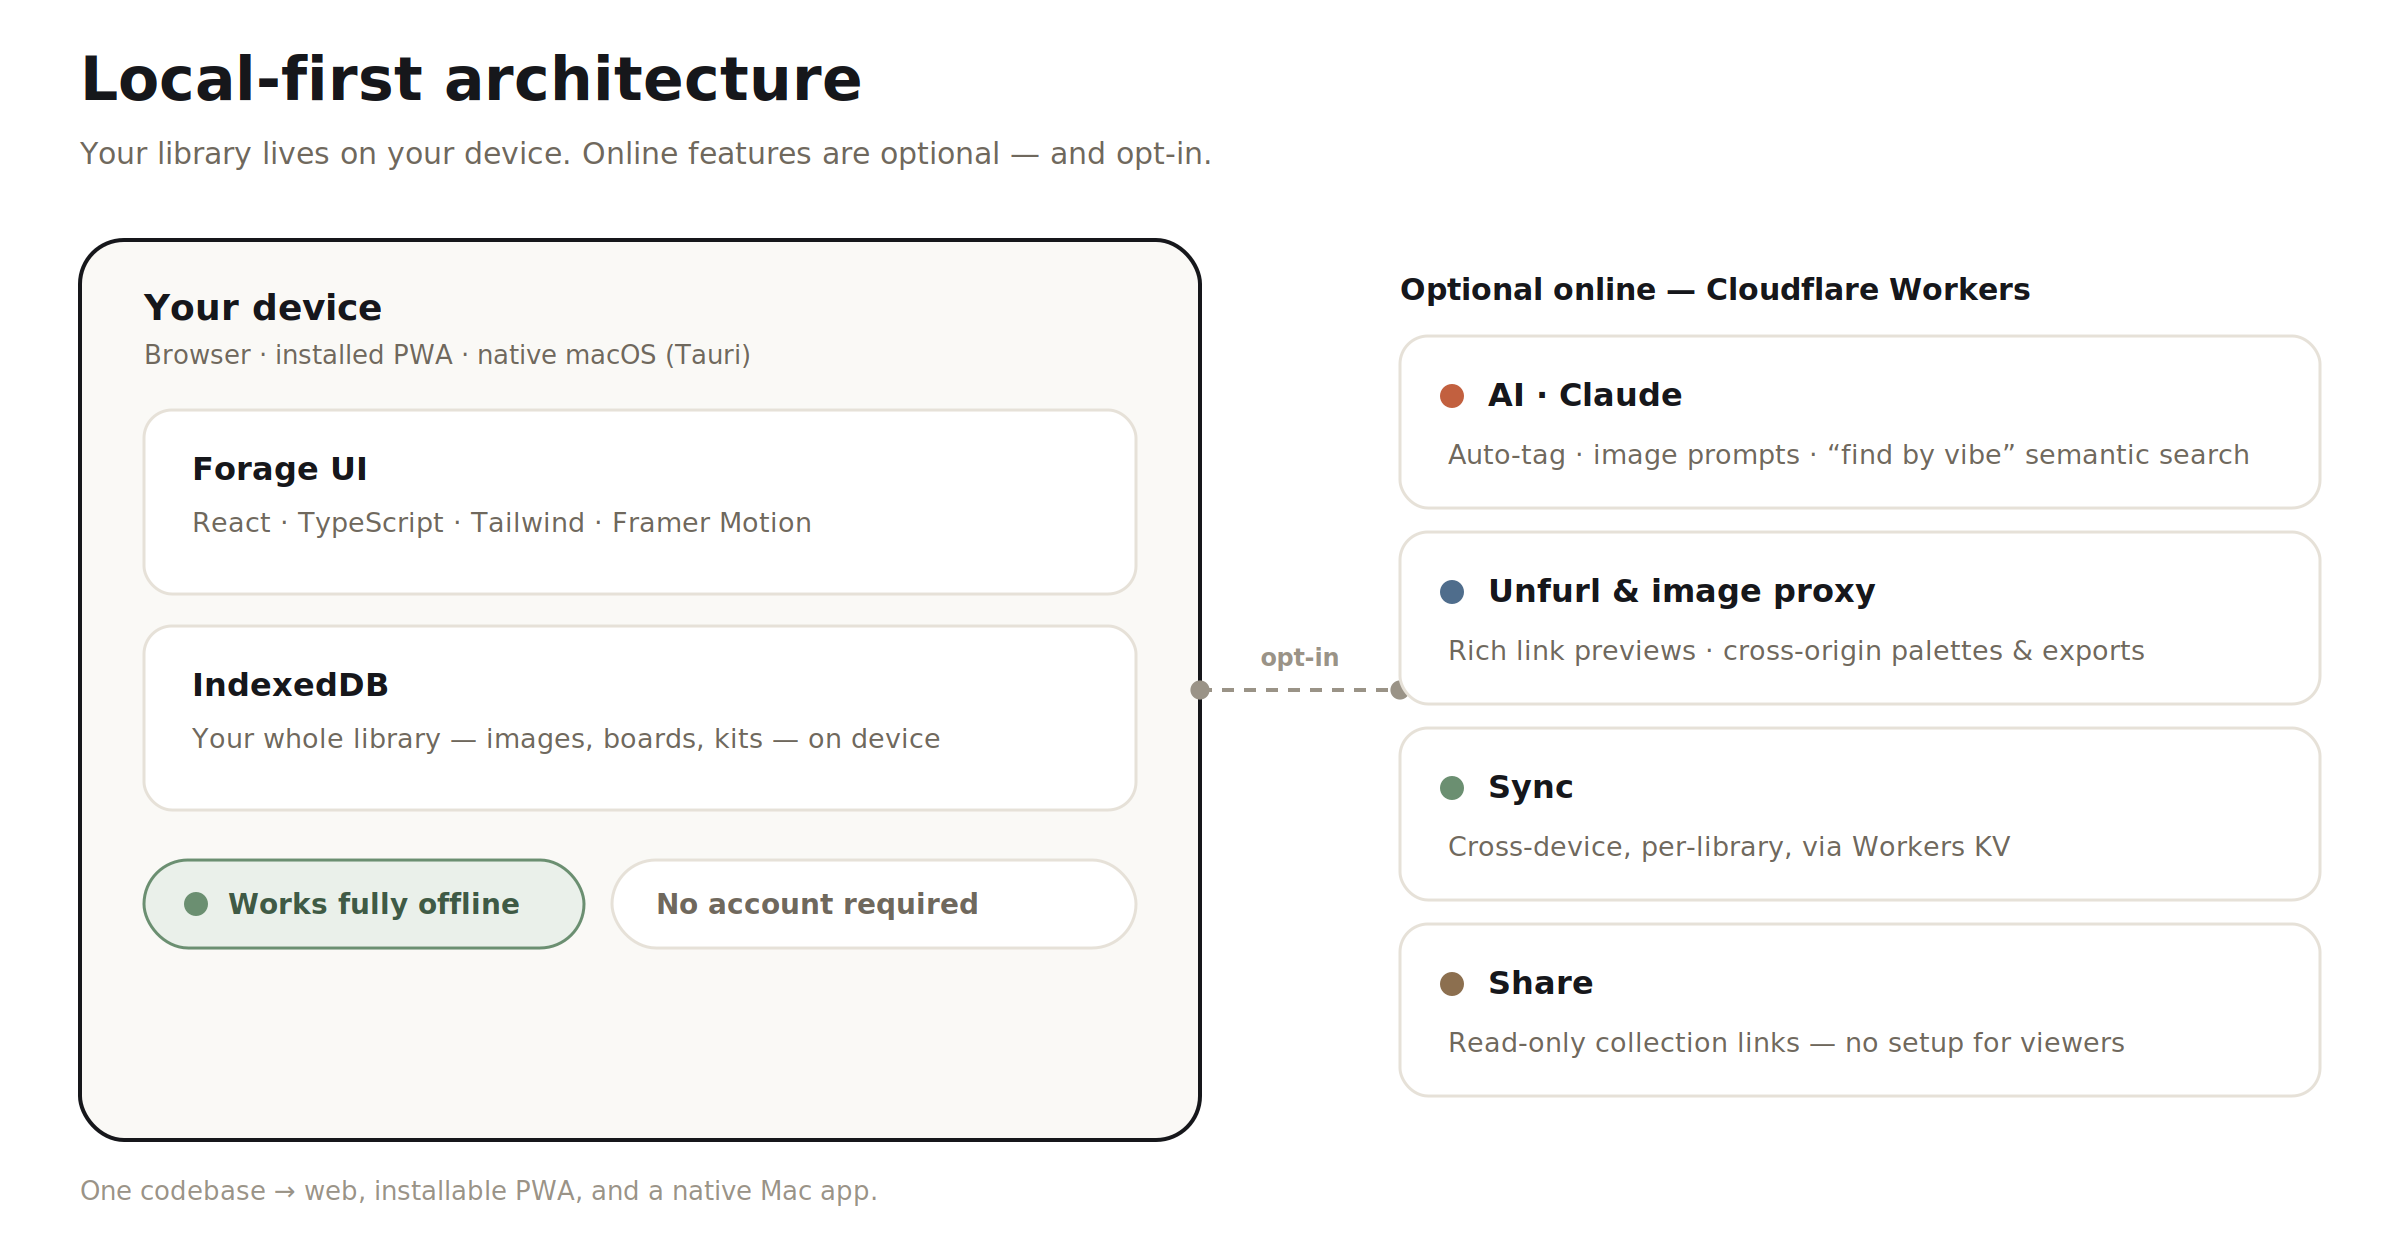
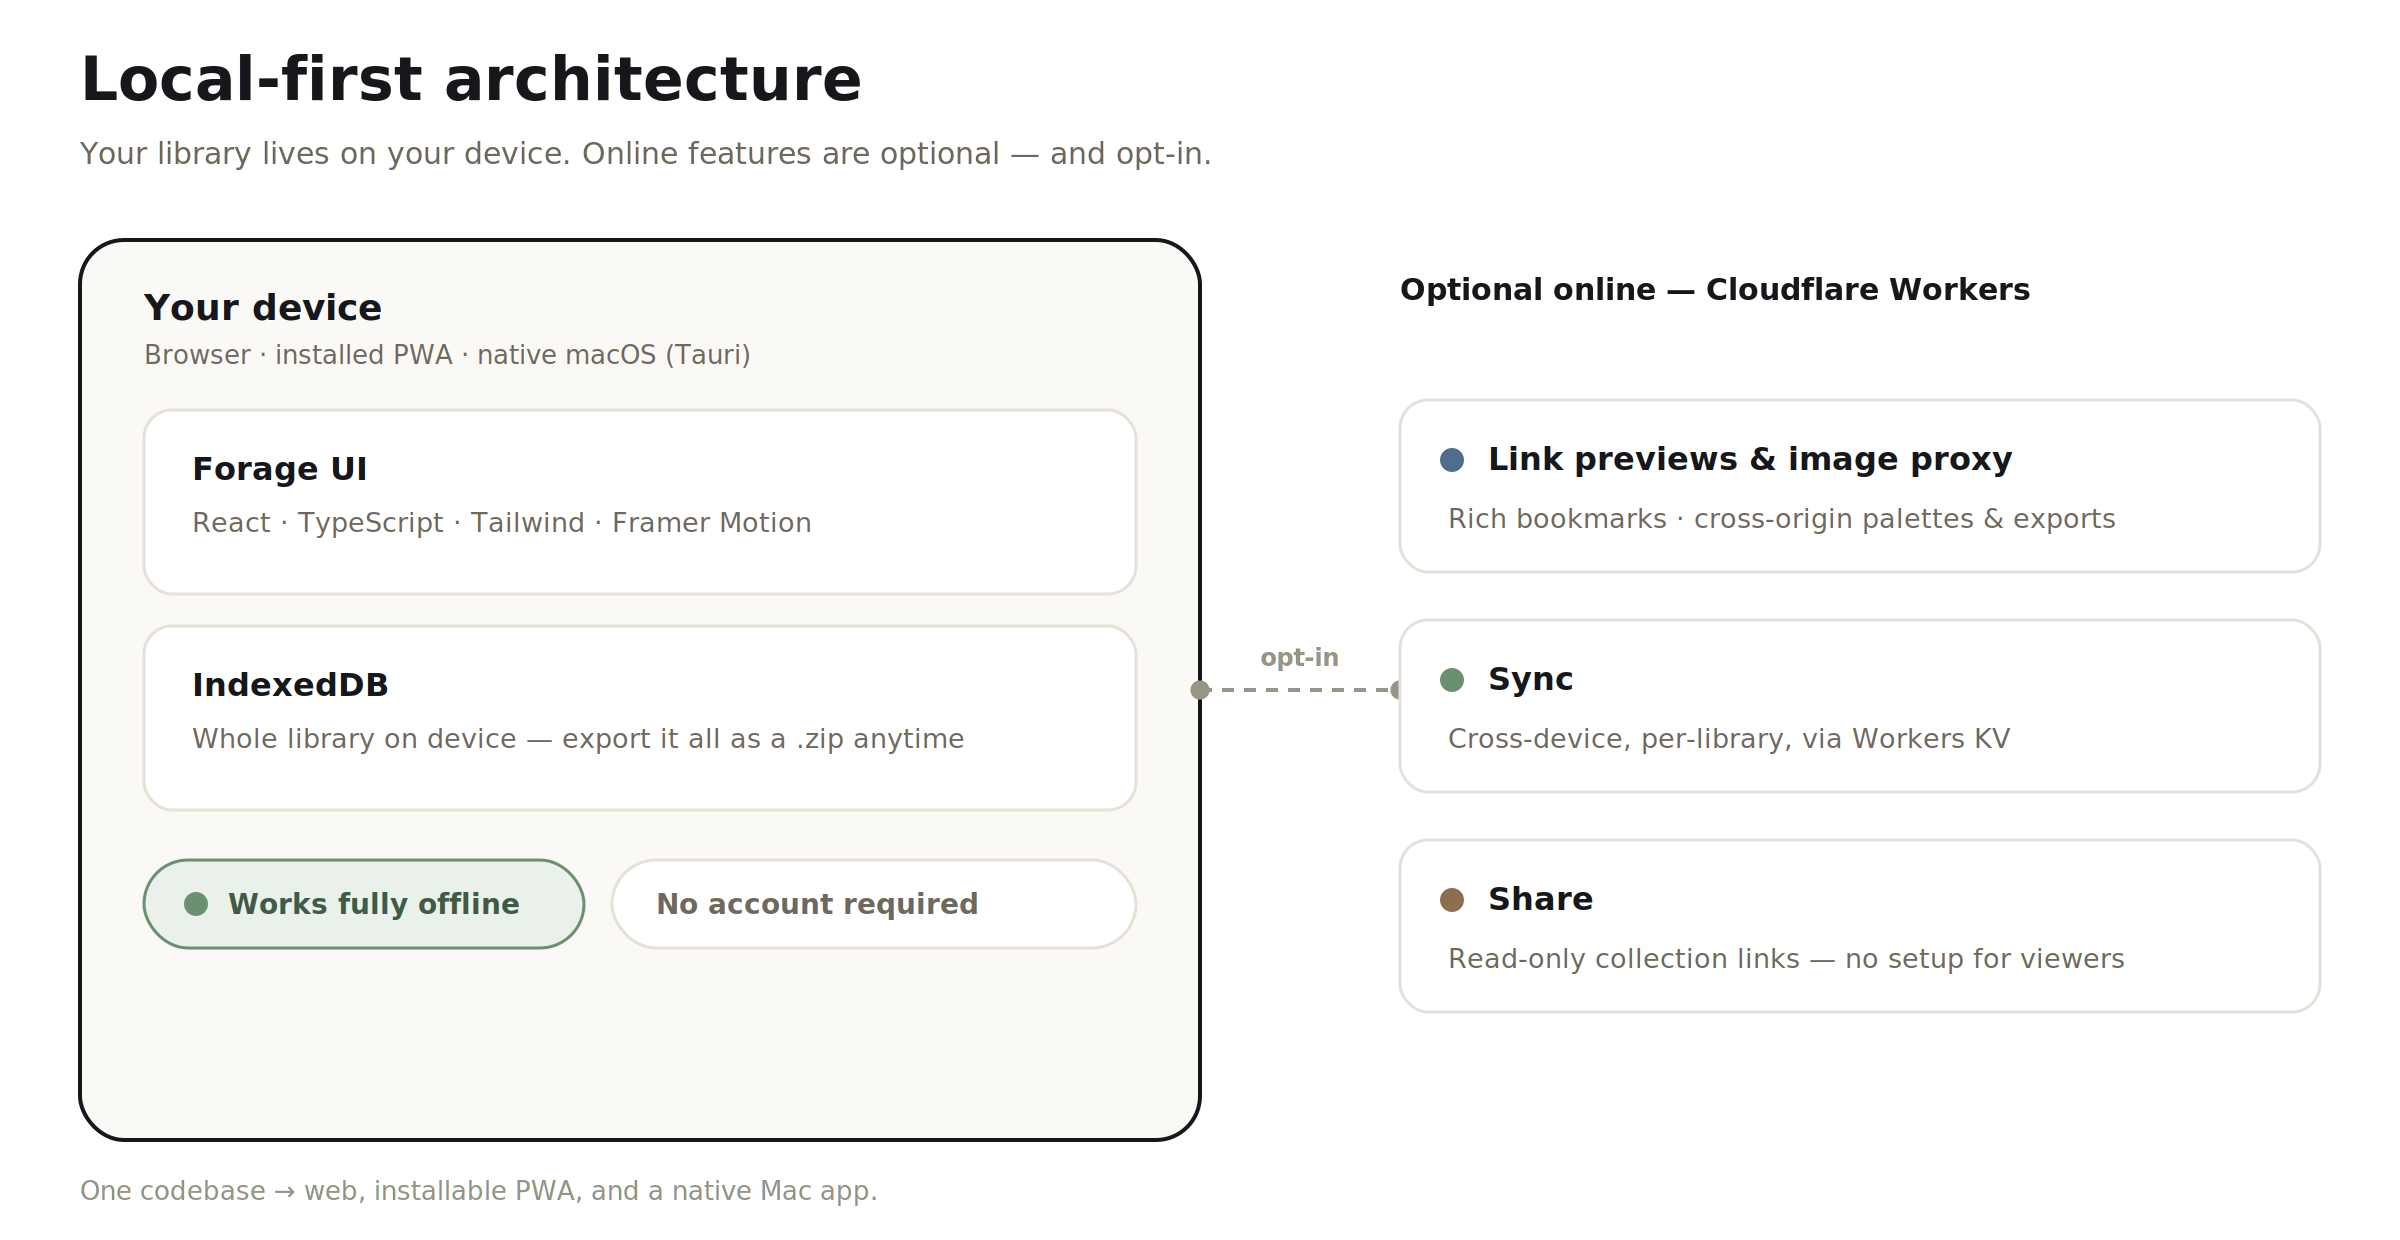
Update case-study assets to match the shipped app
- architecture.svg/.png: removed the AI · Claude worker card (auto-tag, image
  prompts, "find by vibe" are gone); re-spaced to Link previews / Sync / Share,
  and noted the new ".zip export" on the IndexedDB card.
- forage-loop.svg/.png: Resurface card now reads "Search by text, color & tag"
  (no more "find by vibe").
- forage-case-study.md: dropped the AI section and AI/smart-collection mentions;
  added unfiltered inbox, color browser, multi-select / auto-moodboard, system +
  Google fonts, color themes, and library .zip export/import.
- forage-shot-list.md: replaced the AI shots with color-themes / library-export /
  Stats; fixed detail-panel, collections, fonts, and craft entries; added the
  brand-mark shot.
- Added the brand mark to the folder: forage-light.svg, forage-dark.svg, and a
  side-by-side forage-mark.png.

Claude-Session: https://claude.ai/code/session_01DoAgfmgAZbLEhS8eb3pJGY

diff --git a/docs/case-study/forage-case-study.md b/docs/case-study/forage-case-study.md
@@ -53,7 +53,8 @@ Four rules shaped every decision:
 - **Calm.** Generous space, soft motion, no noise. The work is the hero.
 - **Fast.** Capture in two keystrokes; everything is one shortcut away.
 - **Local-first.** Your library is yours, on your device, offline by default.
-  Online features (AI, sync, sharing) are opt-in — never required.
+  Online features (sync, sharing, link previews) are opt-in — never required,
+  and you can export everything as a .zip at any time.
 - **Beautiful by default.** A real design system: type scale, color tokens, a
   consistent corner/elevation language, light and dark.
 
@@ -85,23 +86,26 @@ source, or tag — or by **color**: pick a hue and the whole library reorganizes
 around it.
 
 ### Detail that does real work
-Open any save and you get its palette (sampled with an eyedropper), an
-AI-generated prompt, tags, the collections it lives in, and the "derived from"
-graph linking inputs to outputs.
+Open any save and you get its palette (sampled with an eyedropper), tags, the
+collections it lives in, and the "derived from" graph linking inputs to outputs.
 
 ### Organize the way you think
-Manual **collections**, **smart collections** that gather themselves by type or
-source, **moodboards** on an infinite canvas (drag, annotate, present), and
+Manual **collections** — with an **"unfiltered" inbox** for anything not yet
+filed — a **color browser**, **moodboards** on an infinite canvas (drag,
+annotate, present, multi-select to add, or auto-lay-out a whole collection), and
 **storyboards** for sequencing a narrative.
 
 ### Tools for design, not just storage
 Save and extract **color palettes** (hover to read hex, click to copy),
-**fonts** previewed in their real typeface, and **brand kits** that bundle a
-palette, fonts, and references — exportable as CSS in one click.
+**fonts** previewed in their real typeface — pulled from your installed system
+fonts or Google Fonts — and **brand kits** that bundle a palette, fonts, and
+references, exportable as CSS in one click.
 
-### Intelligence where it helps
-Opt-in AI (Claude) auto-tags saves, writes image prompts, and powers
-"find by vibe" semantic search — all behind a single endpoint you control.
+### Make it yours — and take it with you
+Optional **color themes** re-tint the whole app, light or dark. And because the
+library is yours, you can **export everything as an organized .zip** (a folder
+per collection, assets as real files) or a portable JSON backup — and re-import
+either, losslessly.
 
 ---
 
@@ -111,7 +115,8 @@ Opt-in AI (Claude) auto-tags saves, writes image prompts, and powers
   bounces for the sake of it.
 - **Sound.** Optional, synthesized UI sounds with a "variety" mode and a distinct
   trash cue — designed, not stock.
-- **Theming.** A full light/dark system on design tokens.
+- **Theming.** A full light/dark system on design tokens, plus optional color
+  themes that re-tint the whole app.
 - **Responsive & mobile.** A dedicated mobile pass: bottom tab bar, full-screen
   detail sheets, touch-friendly controls, pinch-to-zoom on the canvas.
 - **Speed.** Command palette (⌘K), full keyboard navigation, instant local data.
@@ -123,8 +128,8 @@ Opt-in AI (Claude) auto-tags saves, writes image prompts, and powers
 I built the whole thing: **React + TypeScript + Vite + Tailwind CSS + Framer
 Motion** on the front end; **IndexedDB** for a local-first library that holds
 images without hitting storage limits; **Cloudflare Workers** for the optional
-online layer (Claude for AI, KV for sync, an unfurl/image proxy, and read-only
-sharing); and **Tauri 2** to ship it as a native Mac app from the same codebase.
+online layer (KV for sync, a link-unfurl/image proxy, and read-only sharing);
+and **Tauri 2** to ship it as a native Mac app from the same codebase.
 It's a PWA, so it installs on a phone and runs offline.
 
 *(diagram: architecture.svg)*

diff --git a/docs/case-study/forage-shot-list.md b/docs/case-study/forage-shot-list.md
@@ -31,15 +31,17 @@ A one-pass checklist for recording every asset the case study needs.
 
 ## 4 · Item detail
 - [ ] 🎥 Open a tile → detail view → **eyedropper sampling a color** into the palette.
-- [ ] 📷 Detail panel: palette, tags, collections, AI prompt, "derived from".
+- [ ] 📷 Detail panel: palette, tags, collections, "derived from".
 
 ## 5 · Collections & color
 - [ ] 🎥 **Browse by color** → pick a hue → library filters to it.
-- [ ] 📷 Collections grid (incl. smart collections).
+- [ ] 📷 Collections grid + the **Unfiltered** inbox tab (saves not yet filed).
+- [ ] 📷 A collection cover showing mixed previews (images, font glyphs, palettes).
 - [ ] 📷 A single collection page (e.g. "Studio Rebrand").
 
 ## 6 · Moodboards (centerpiece)
 - [ ] 🎥 Arrange items on the canvas, add a sticky note, **draw an arrow**, **pinch-zoom**, hit **Present**.
+- [ ] 🎥 **Multi-select** saves in the picker to drop a batch on at once; or **auto-moodboard** a whole collection in one click.
 - [ ] 📷 A finished, beautiful moodboard.
 
 ## 7 · Storyboards
@@ -47,12 +49,13 @@ A one-pass checklist for recording every asset the case study needs.
 
 ## 8 · Palettes · Fonts · Kits (design-tool features)
 - [ ] 🎥 **Extract a palette from an image**, hover swatches, **click-to-copy a hex** (show the toast).
-- [ ] 📷 Font tiles rendering **real typefaces** (Playfair Display, Inter).
+- [ ] 📷 Font tiles rendering **real typefaces** (Playfair Display, Inter) — added from your **system fonts or Google Fonts**.
 - [ ] 🎥 A **Style Kit** (palette + fonts + references) → **Export CSS**.
 
-## 9 · AI
-- [ ] 🎥 **Auto-tag** + **Generate prompt** on an image.
-- [ ] 🎥 Semantic **"find by vibe"** search in the command palette.
+## 9 · Make it yours & take it with you
+- [ ] 🎥 **Color themes** — re-tint the whole app (Settings → Appearance), in light and dark.
+- [ ] 🎥 **Export library** → an organized **.zip** downloads (a folder per collection); show **Import** restoring it.
+- [ ] 📷 The **Stats** page (totals + breakdown by type).
 
 ## 10 · Speed & shortcuts
 - [ ] 🎥 **⌘K** command palette — search, jump to a view, run a command.
@@ -71,8 +74,10 @@ A one-pass checklist for recording every asset the case study needs.
 
 ## 14 · System & craft (designers love these)
 - [ ] 📷 **Light + dark** side by side.
+- [ ] 📷 The **brand mark** — the four-leaf Forage icon, light + dark (`forage-light.svg` / `forage-dark.svg` — included).
+- [ ] 📷 The **color themes** row (Classic, Warm Paper, Sage, Sky, Lilac, Rose).
 - [ ] 📷 A **design-system board**: type scale, color tokens, corner/elevation language, components.
-- [ ] 📷 The two **diagrams** (forage-loop.svg, architecture.svg — included).
+- [ ] 📷 The two **diagrams** (`forage-loop.svg`, `architecture.svg` — included).
 
 ## 15 · Process (optional, high-impact)
 - [ ] ✏️ Early **sketches / wireframes** (pull from `docs/SCREENS.md`).